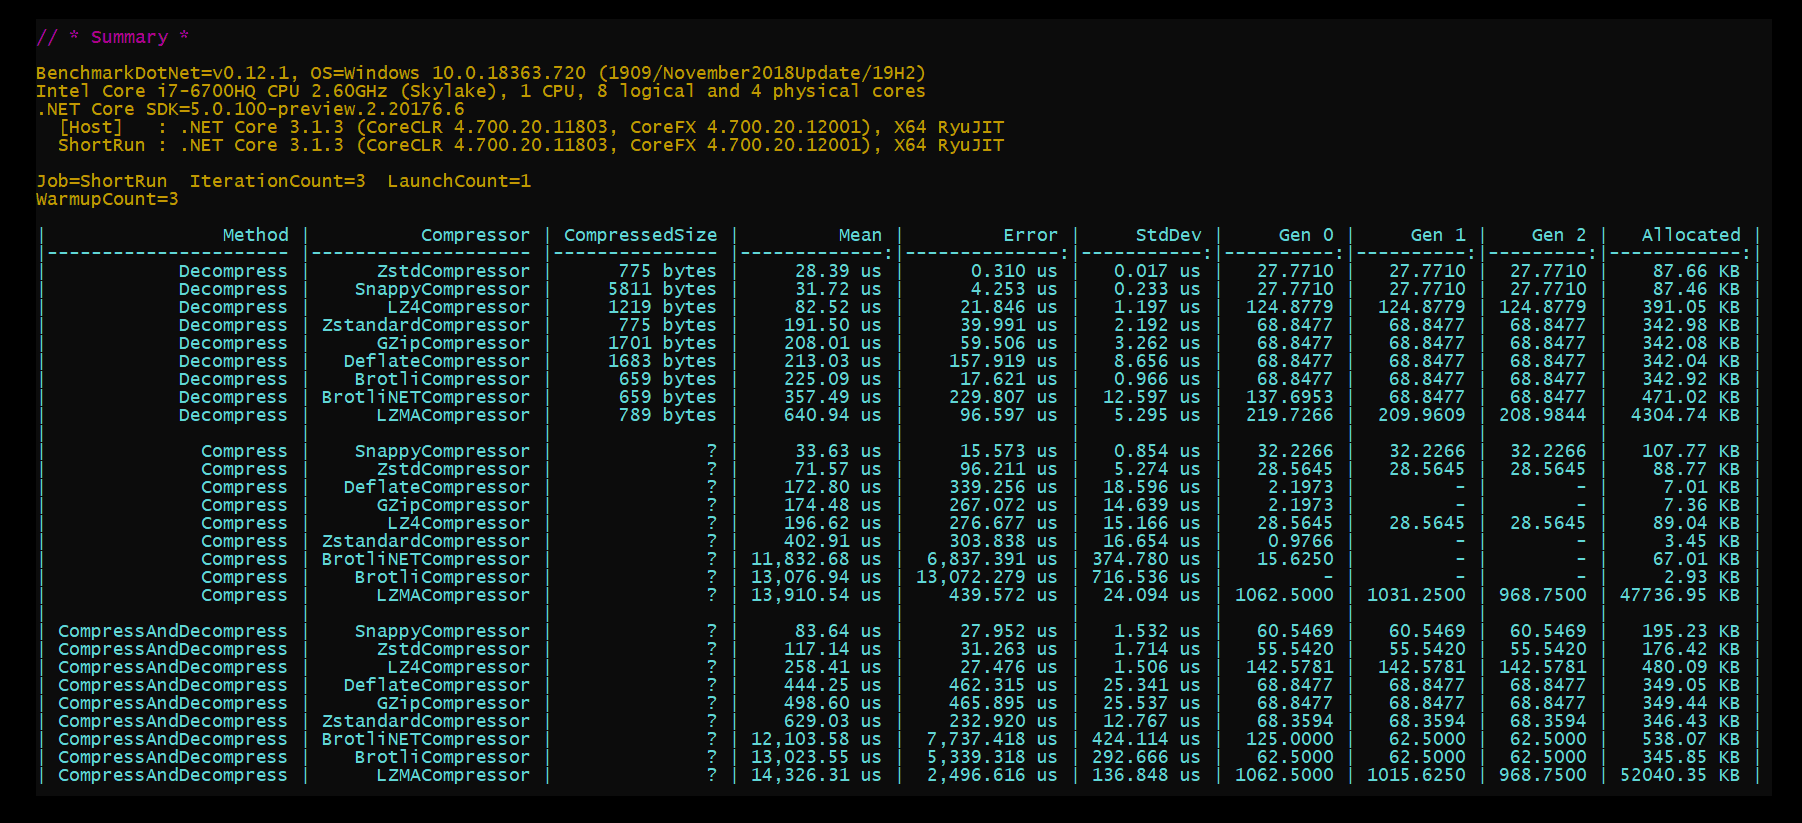
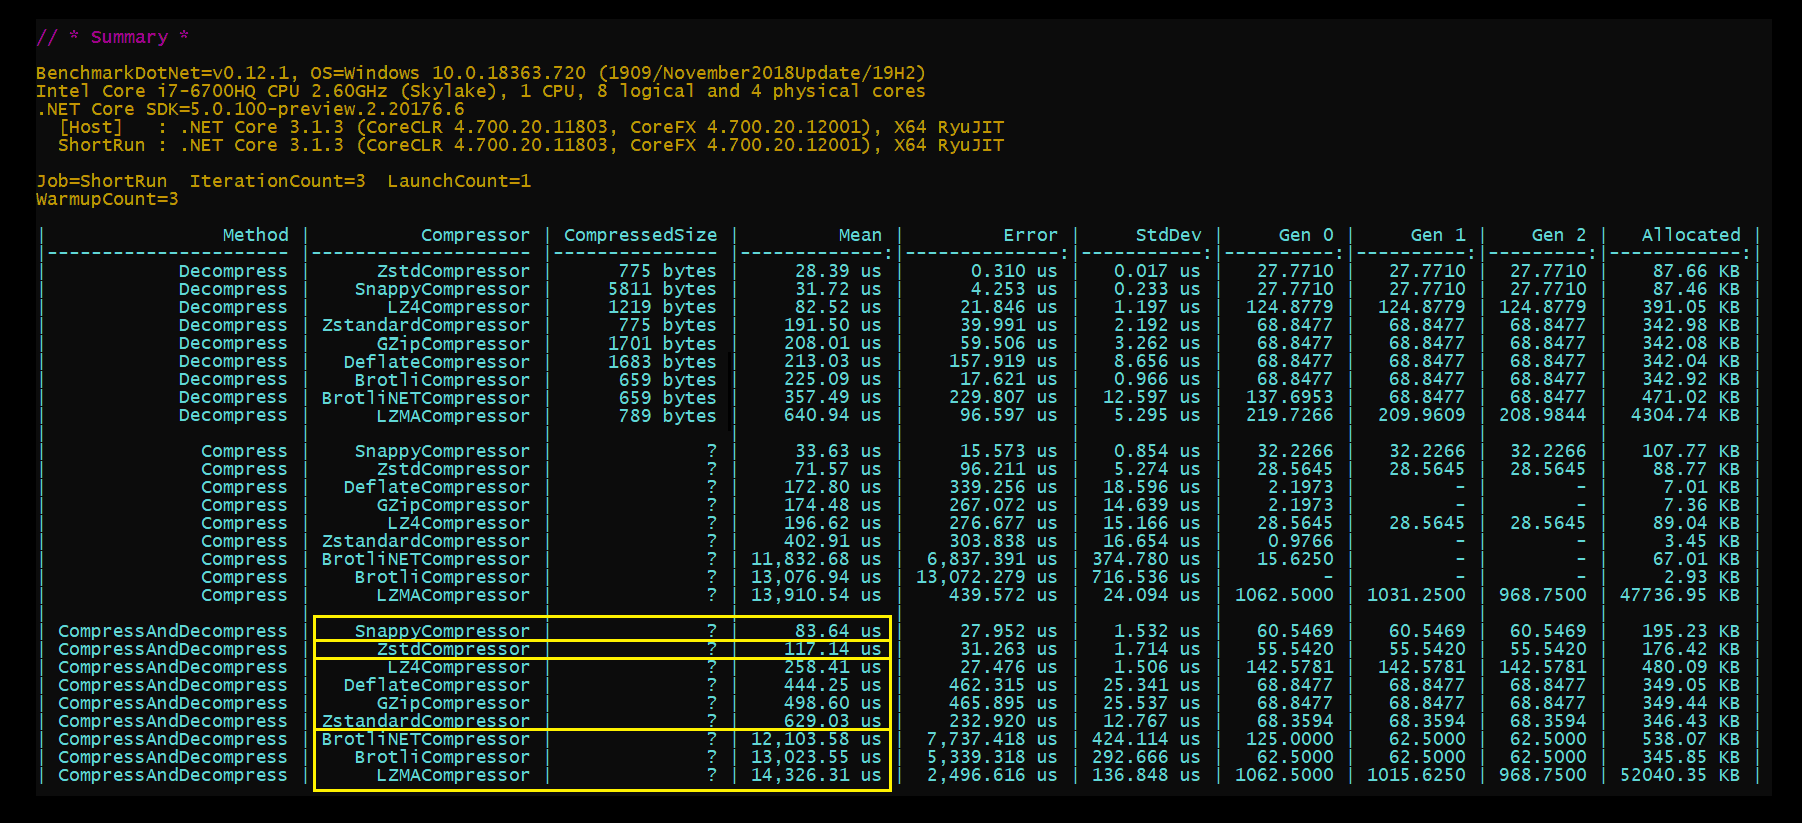
Performance improvement by ConfigureAwait(false) - Update README.md

diff --git a/src/EasyCompressor.LZMA/LZMACompressor.cs b/src/EasyCompressor.LZMA/LZMACompressor.cs
@@ -214,9 +214,9 @@ namespace EasyCompressor
         {
             using (MemoryStream inputMemory = new MemoryStream())
             {
-                await inputStream.CopyToAsync(inputMemory, DefaultBufferSize, cancellationToken);
-                await inputStream.FlushAsync(cancellationToken);
-                await inputMemory.FlushAsync(cancellationToken);
+                await inputStream.CopyToAsync(inputMemory, DefaultBufferSize, cancellationToken).ConfigureAwait(false);
+                await inputStream.FlushAsync(cancellationToken).ConfigureAwait(false);
+                await inputMemory.FlushAsync(cancellationToken).ConfigureAwait(false);
                 inputMemory.Position = 0;
 
                 var encoder = new Encoder();
@@ -225,11 +225,11 @@ namespace EasyCompressor
                 encoder.WriteCoderProperties(outputStream);
 
                 // Write the decompressed file size.
-                await outputStream.WriteAsync(BitConverter.GetBytes(inputMemory.Length), 0, 8, cancellationToken);
+                await outputStream.WriteAsync(BitConverter.GetBytes(inputMemory.Length), 0, 8, cancellationToken).ConfigureAwait(false);
 
                 // Encode
                 encoder.Code(inputMemory, outputStream, inputMemory.Length, -1, null);
-                await outputStream.FlushAsync(cancellationToken);
+                await outputStream.FlushAsync(cancellationToken).ConfigureAwait(false);
             }
         }
 
@@ -238,26 +238,26 @@ namespace EasyCompressor
         {
             using (MemoryStream inputMemory = new MemoryStream())
             {
-                await inputStream.CopyToAsync(inputMemory, DefaultBufferSize, cancellationToken);
-                await inputStream.FlushAsync(cancellationToken);
-                await inputMemory.FlushAsync(cancellationToken);
+                await inputStream.CopyToAsync(inputMemory, DefaultBufferSize, cancellationToken).ConfigureAwait(false);
+                await inputStream.FlushAsync(cancellationToken).ConfigureAwait(false);
+                await inputMemory.FlushAsync(cancellationToken).ConfigureAwait(false);
                 inputMemory.Position = 0;
 
                 var decoder = new Decoder();
 
                 // Read the decoder properties
                 var properties = new byte[5];
-                await inputMemory.ReadAsync(properties, 0, 5, cancellationToken);
+                await inputMemory.ReadAsync(properties, 0, 5, cancellationToken).ConfigureAwait(false);
                 decoder.SetDecoderProperties(properties);
 
                 // Read in the decompress file size.
                 var fileLengthBytes = new byte[8];
-                await inputMemory.ReadAsync(fileLengthBytes, 0, 8, cancellationToken);
+                await inputMemory.ReadAsync(fileLengthBytes, 0, 8, cancellationToken).ConfigureAwait(false);
                 var fileLength = BitConverter.ToInt64(fileLengthBytes, 0);
 
                 // Decode
                 decoder.Code(inputMemory, outputStream, inputMemory.Length, fileLength, null);
-                await outputStream.FlushAsync(cancellationToken);
+                await outputStream.FlushAsync(cancellationToken).ConfigureAwait(false);
             }
         }
     }

diff --git a/src/EasyCompressor.Snappy/SnappyCompressor.cs b/src/EasyCompressor.Snappy/SnappyCompressor.cs
@@ -68,14 +68,14 @@ namespace EasyCompressor
         {
             using (var inputMemory = new MemoryStream())
             {
-                await inputStream.CopyToAsync(inputMemory, DefaultBufferSize, cancellationToken);
-                await inputStream.FlushAsync(cancellationToken);
-                await inputMemory.FlushAsync(cancellationToken);
+                await inputStream.CopyToAsync(inputMemory, DefaultBufferSize, cancellationToken).ConfigureAwait(false);
+                await inputStream.FlushAsync(cancellationToken).ConfigureAwait(false);
+                await inputMemory.FlushAsync(cancellationToken).ConfigureAwait(false);
 
                 var compressedBytes = BaseCompress(inputMemory.ToArray());
 
-                await outputStream.WriteAsync(compressedBytes, 0, compressedBytes.Length, cancellationToken);
-                await outputStream.FlushAsync();
+                await outputStream.WriteAsync(compressedBytes, 0, compressedBytes.Length, cancellationToken).ConfigureAwait(false);
+                await outputStream.FlushAsync().ConfigureAwait(false);
             }
         }
 
@@ -84,14 +84,14 @@ namespace EasyCompressor
         {
             using (var inputMemory = new MemoryStream())
             {
-                await inputStream.CopyToAsync(inputMemory, DefaultBufferSize, cancellationToken);
-                await inputStream.FlushAsync(cancellationToken);
-                await inputMemory.FlushAsync(cancellationToken);
+                await inputStream.CopyToAsync(inputMemory, DefaultBufferSize, cancellationToken).ConfigureAwait(false);
+                await inputStream.FlushAsync(cancellationToken).ConfigureAwait(false);
+                await inputMemory.FlushAsync(cancellationToken).ConfigureAwait(false);
 
                 var compressedBytes = BaseDecompress(inputMemory.ToArray());
 
-                await outputStream.WriteAsync(compressedBytes, 0, compressedBytes.Length, cancellationToken);
-                await outputStream.FlushAsync();
+                await outputStream.WriteAsync(compressedBytes, 0, compressedBytes.Length, cancellationToken).ConfigureAwait(false);
+                await outputStream.FlushAsync().ConfigureAwait(false);
             }
         }
     }

diff --git a/src/EasyCompressor.Zstd/ZstdCompressor.cs b/src/EasyCompressor.Zstd/ZstdCompressor.cs
@@ -86,14 +86,14 @@ namespace EasyCompressor
         {
             using (var inputMemory = new MemoryStream())
             {
-                await inputStream.CopyToAsync(inputMemory, DefaultBufferSize, cancellationToken);
-                await inputStream.FlushAsync(cancellationToken);
-                await inputMemory.FlushAsync(cancellationToken);
+                await inputStream.CopyToAsync(inputMemory, DefaultBufferSize, cancellationToken).ConfigureAwait(false);
+                await inputStream.FlushAsync(cancellationToken).ConfigureAwait(false);
+                await inputMemory.FlushAsync(cancellationToken).ConfigureAwait(false);
 
                 var compressedBytes = BaseCompress(inputMemory.ToArray());
 
-                await outputStream.WriteAsync(compressedBytes, 0, compressedBytes.Length, cancellationToken);
-                await outputStream.FlushAsync();
+                await outputStream.WriteAsync(compressedBytes, 0, compressedBytes.Length, cancellationToken).ConfigureAwait(false);
+                await outputStream.FlushAsync().ConfigureAwait(false);
             }
         }
 
@@ -102,14 +102,14 @@ namespace EasyCompressor
         {
             using (var inputMemory = new MemoryStream())
             {
-                await inputStream.CopyToAsync(inputMemory, DefaultBufferSize, cancellationToken);
-                await inputStream.FlushAsync(cancellationToken);
-                await inputMemory.FlushAsync(cancellationToken);
+                await inputStream.CopyToAsync(inputMemory, DefaultBufferSize, cancellationToken).ConfigureAwait(false);
+                await inputStream.FlushAsync(cancellationToken).ConfigureAwait(false);
+                await inputMemory.FlushAsync(cancellationToken).ConfigureAwait(false);
 
                 var compressedBytes = BaseDecompress(inputMemory.ToArray());
 
-                await outputStream.WriteAsync(compressedBytes, 0, compressedBytes.Length, cancellationToken);
-                await outputStream.FlushAsync();
+                await outputStream.WriteAsync(compressedBytes, 0, compressedBytes.Length, cancellationToken).ConfigureAwait(false);
+                await outputStream.FlushAsync().ConfigureAwait(false);
             }
         }
     }

diff --git a/src/EasyCompressor.BrotliNET/BrotliNETCompressor.cs b/src/EasyCompressor.BrotliNET/BrotliNETCompressor.cs
@@ -104,10 +104,10 @@ namespace EasyCompressor
             {
                 brotliStream.SetQuality(Quality);
                 brotliStream.SetWindow(Window);
-                await inputStream.CopyToAsync(brotliStream, DefaultBufferSize, cancellationToken);
+                await inputStream.CopyToAsync(brotliStream, DefaultBufferSize, cancellationToken).ConfigureAwait(false);
 
-                await inputStream.FlushAsync(cancellationToken);
-                await brotliStream.FlushAsync(cancellationToken);
+                await inputStream.FlushAsync(cancellationToken).ConfigureAwait(false);
+                await brotliStream.FlushAsync(cancellationToken).ConfigureAwait(false);
             }
         }
 
@@ -116,10 +116,10 @@ namespace EasyCompressor
         {
             using (var brotliStream = new Brotli.BrotliStream(inputStream, CompressionMode.Decompress))
             {
-                await brotliStream.CopyToAsync(outputStream, DefaultBufferSize, cancellationToken);
+                await brotliStream.CopyToAsync(outputStream, DefaultBufferSize, cancellationToken).ConfigureAwait(false);
 
-                await outputStream.FlushAsync(cancellationToken);
-                await brotliStream.FlushAsync(cancellationToken);
+                await outputStream.FlushAsync(cancellationToken).ConfigureAwait(false);
+                await brotliStream.FlushAsync(cancellationToken).ConfigureAwait(false);
             }
         }
     }

diff --git a/src/EasyCompressor.LZ4/LZ4Compressor.cs b/src/EasyCompressor.LZ4/LZ4Compressor.cs
@@ -73,10 +73,10 @@ namespace EasyCompressor
         {
             using (var lz4Stream = LZ4Stream.Encode(outputStream, Level))
             {
-                await inputStream.CopyToAsync(lz4Stream, DefaultBufferSize, cancellationToken);
+                await inputStream.CopyToAsync(lz4Stream, DefaultBufferSize, cancellationToken).ConfigureAwait(false);
 
-                await inputStream.FlushAsync(cancellationToken);
-                await lz4Stream.FlushAsync(cancellationToken);
+                await inputStream.FlushAsync(cancellationToken).ConfigureAwait(false);
+                await lz4Stream.FlushAsync(cancellationToken).ConfigureAwait(false);
             }
         }
 
@@ -85,10 +85,10 @@ namespace EasyCompressor
         {
             using (var lz4Stream = LZ4Stream.Decode(inputStream))
             {
-                await lz4Stream.CopyToAsync(outputStream, DefaultBufferSize, cancellationToken);
+                await lz4Stream.CopyToAsync(outputStream, DefaultBufferSize, cancellationToken).ConfigureAwait(false);
 
-                await inputStream.FlushAsync(cancellationToken);
-                await lz4Stream.FlushAsync(cancellationToken);
+                await inputStream.FlushAsync(cancellationToken).ConfigureAwait(false);
+                await lz4Stream.FlushAsync(cancellationToken).ConfigureAwait(false);
             }
         }
     }

diff --git a/src/EasyCompressor.Zstandard/ZstandardCompressor.cs b/src/EasyCompressor.Zstandard/ZstandardCompressor.cs
@@ -102,10 +102,10 @@ namespace EasyCompressor
         {
             using (var gZipStream = new ZstandardStream(outputStream, Level))
             {
-                await inputStream.CopyToAsync(gZipStream, DefaultBufferSize, cancellationToken);
+                await inputStream.CopyToAsync(gZipStream, DefaultBufferSize, cancellationToken).ConfigureAwait(false);
 
-                await inputStream.FlushAsync(cancellationToken);
-                await gZipStream.FlushAsync(cancellationToken);
+                await inputStream.FlushAsync(cancellationToken).ConfigureAwait(false);
+                await gZipStream.FlushAsync(cancellationToken).ConfigureAwait(false);
             }
         }
 
@@ -114,10 +114,10 @@ namespace EasyCompressor
         {
             using (var gZipStream = new ZstandardStream(inputStream, CompressionMode.Decompress))
             {
-                await gZipStream.CopyToAsync(outputStream, DefaultBufferSize, cancellationToken);
+                await gZipStream.CopyToAsync(outputStream, DefaultBufferSize, cancellationToken).ConfigureAwait(false);
 
-                await outputStream.FlushAsync(cancellationToken);
-                await gZipStream.FlushAsync(cancellationToken);
+                await outputStream.FlushAsync(cancellationToken).ConfigureAwait(false);
+                await gZipStream.FlushAsync(cancellationToken).ConfigureAwait(false);
             }
         }
     }

diff --git a/src/EasyCompressor/Compressor/BrotliCompressor.cs b/src/EasyCompressor/Compressor/BrotliCompressor.cs
@@ -92,10 +92,10 @@ namespace EasyCompressor
         {
             using (var brotliStream = new BrotliStream(outputStream, Level))
             {
-                await inputStream.CopyToAsync(brotliStream, DefaultBufferSize, cancellationToken);
+                await inputStream.CopyToAsync(brotliStream, DefaultBufferSize, cancellationToken).ConfigureAwait(false);
 
-                await inputStream.FlushAsync(cancellationToken);
-                await brotliStream.FlushAsync(cancellationToken);
+                await inputStream.FlushAsync(cancellationToken).ConfigureAwait(false);
+                await brotliStream.FlushAsync(cancellationToken).ConfigureAwait(false);
             }
         }
 
@@ -104,10 +104,10 @@ namespace EasyCompressor
         {
             using (var brotliStream = new BrotliStream(inputStream, CompressionMode.Decompress))
             {
-                await brotliStream.CopyToAsync(outputStream, DefaultBufferSize, cancellationToken);
+                await brotliStream.CopyToAsync(outputStream, DefaultBufferSize, cancellationToken).ConfigureAwait(false);
 
-                await outputStream.FlushAsync(cancellationToken);
-                await brotliStream.FlushAsync(cancellationToken);
+                await outputStream.FlushAsync(cancellationToken).ConfigureAwait(false);
+                await brotliStream.FlushAsync(cancellationToken).ConfigureAwait(false);
             }
         }
     }

diff --git a/src/EasyCompressor/Compressor/DeflateCompressor.cs b/src/EasyCompressor/Compressor/DeflateCompressor.cs
@@ -91,10 +91,10 @@ namespace EasyCompressor
         {
             using (var deflateStream = new DeflateStream(outputStream, Level))
             {
-                await inputStream.CopyToAsync(deflateStream, DefaultBufferSize, cancellationToken);
+                await inputStream.CopyToAsync(deflateStream, DefaultBufferSize, cancellationToken).ConfigureAwait(false);
 
-                await inputStream.FlushAsync(cancellationToken);
-                await deflateStream.FlushAsync(cancellationToken);
+                await inputStream.FlushAsync(cancellationToken).ConfigureAwait(false);
+                await deflateStream.FlushAsync(cancellationToken).ConfigureAwait(false);
             }
         }
 
@@ -103,10 +103,10 @@ namespace EasyCompressor
         {
             using (var deflateStream = new DeflateStream(inputStream, CompressionMode.Decompress))
             {
-                await deflateStream.CopyToAsync(outputStream, DefaultBufferSize, cancellationToken);
+                await deflateStream.CopyToAsync(outputStream, DefaultBufferSize, cancellationToken).ConfigureAwait(false);
 
-                await outputStream.FlushAsync(cancellationToken);
-                await deflateStream.FlushAsync(cancellationToken);
+                await outputStream.FlushAsync(cancellationToken).ConfigureAwait(false);
+                await deflateStream.FlushAsync(cancellationToken).ConfigureAwait(false);
             }
         }
     }

diff --git a/src/EasyCompressor/Compressor/GZipCompressor.cs b/src/EasyCompressor/Compressor/GZipCompressor.cs
@@ -125,10 +125,10 @@ namespace EasyCompressor
         {
             using (var gZipStream = new GZipStream(outputStream, Level))
             {
-                await inputStream.CopyToAsync(gZipStream, DefaultBufferSize, cancellationToken);
+                await inputStream.CopyToAsync(gZipStream, DefaultBufferSize, cancellationToken).ConfigureAwait(false);
 
-                await inputStream.FlushAsync(cancellationToken);
-                await gZipStream.FlushAsync(cancellationToken);
+                await inputStream.FlushAsync(cancellationToken).ConfigureAwait(false);
+                await gZipStream.FlushAsync(cancellationToken).ConfigureAwait(false);
             }
         }
 
@@ -137,10 +137,10 @@ namespace EasyCompressor
         {
             using (var gZipStream = new GZipStream(inputStream, CompressionMode.Decompress))
             {
-                await gZipStream.CopyToAsync(outputStream, DefaultBufferSize, cancellationToken);
+                await gZipStream.CopyToAsync(outputStream, DefaultBufferSize, cancellationToken).ConfigureAwait(false);
 
-                await outputStream.FlushAsync(cancellationToken);
-                await gZipStream.FlushAsync(cancellationToken);
+                await outputStream.FlushAsync(cancellationToken).ConfigureAwait(false);
+                await gZipStream.FlushAsync(cancellationToken).ConfigureAwait(false);
             }
         }
     }

diff --git a/src/EasyCompressor/Extensions/CompressorExtensions.cs b/src/EasyCompressor/Extensions/CompressorExtensions.cs
@@ -164,7 +164,7 @@ namespace EasyCompressor
         {
             using (var outputStream = new MemoryStream())
             {
-                await compressor.CompressAsync(inputStream, outputStream, cancellationToken);
+                await compressor.CompressAsync(inputStream, outputStream, cancellationToken).ConfigureAwait(false);
                 return outputStream.ToArray();
             }
         }
@@ -180,7 +180,7 @@ namespace EasyCompressor
         {
             using (var outputStream = new MemoryStream())
             {
-                await compressor.DecompressAsync(inputStream, outputStream, cancellationToken);
+                await compressor.DecompressAsync(inputStream, outputStream, cancellationToken).ConfigureAwait(false);
                 return outputStream.ToArray();
             }
         }

diff --git a/README.md b/README.md
@@ -21,7 +21,8 @@
 
 - Supports and Implements **many compression algorithms**.
 - Supports **async/await and CancellationToken**.
-- Supports **adding multiple compressor with specified name**
+- Supports woking with **multiple compressor with specified name**
+- Supports **Stream** as most as possible (*depending on the underlying* library)
 - Compress/Decompress between **byte[], Stream, StreamReader and StreamWriter**.
 
 ## Get Started
@@ -55,14 +56,15 @@ public void ConfigureServices(IServiceCollection services)
 ```csharp
 using EasyCompressor;
 
-//Inject ICompressor
+//Inject (ICompressor compressor)
 
 //Compress
-var compressedBytes = _compressor.Compress(inputBytes);
+var compressedBytes = compressor.Compress(inputBytes);
 
 //Decompress
-var uncompressedBytes = _compressor.Decompress(compressedBytes);
+var uncompressedBytes = compressor.Decompress(compressedBytes);
 ```
+
 ## Contributing
 
 Create an [issue](https://github.com/mjebrahimi/EasyCompressor/issues/new) if you find a BUG or have a Suggestion or Question. If you want to develop this project :
@@ -75,11 +77,19 @@ Create an [issue](https://github.com/mjebrahimi/EasyCompressor/issues/new) if yo
 
 ## Benchmark
 
-![](Benchmark.png)
+**Result:**
+
+- Snapyy: **Fastest Speed - Lowest Compression**
+- Zstd: **Best Moderate**
+- LZ4, Deflate, **GZip: Moderate**
+- Brotli, LZMA: **Lowest Speed**
+- Brotli, LZMA, Zstd: **Maximum Compression Rate**
+
+![Benchmark](Benchmark.png)
 
 ## Give a Star! ⭐️
-If you find this repository useful, please give it a star. Thanks!
 
+If you find this repository useful, please give it a star. Thanks!
 
 ## License
 